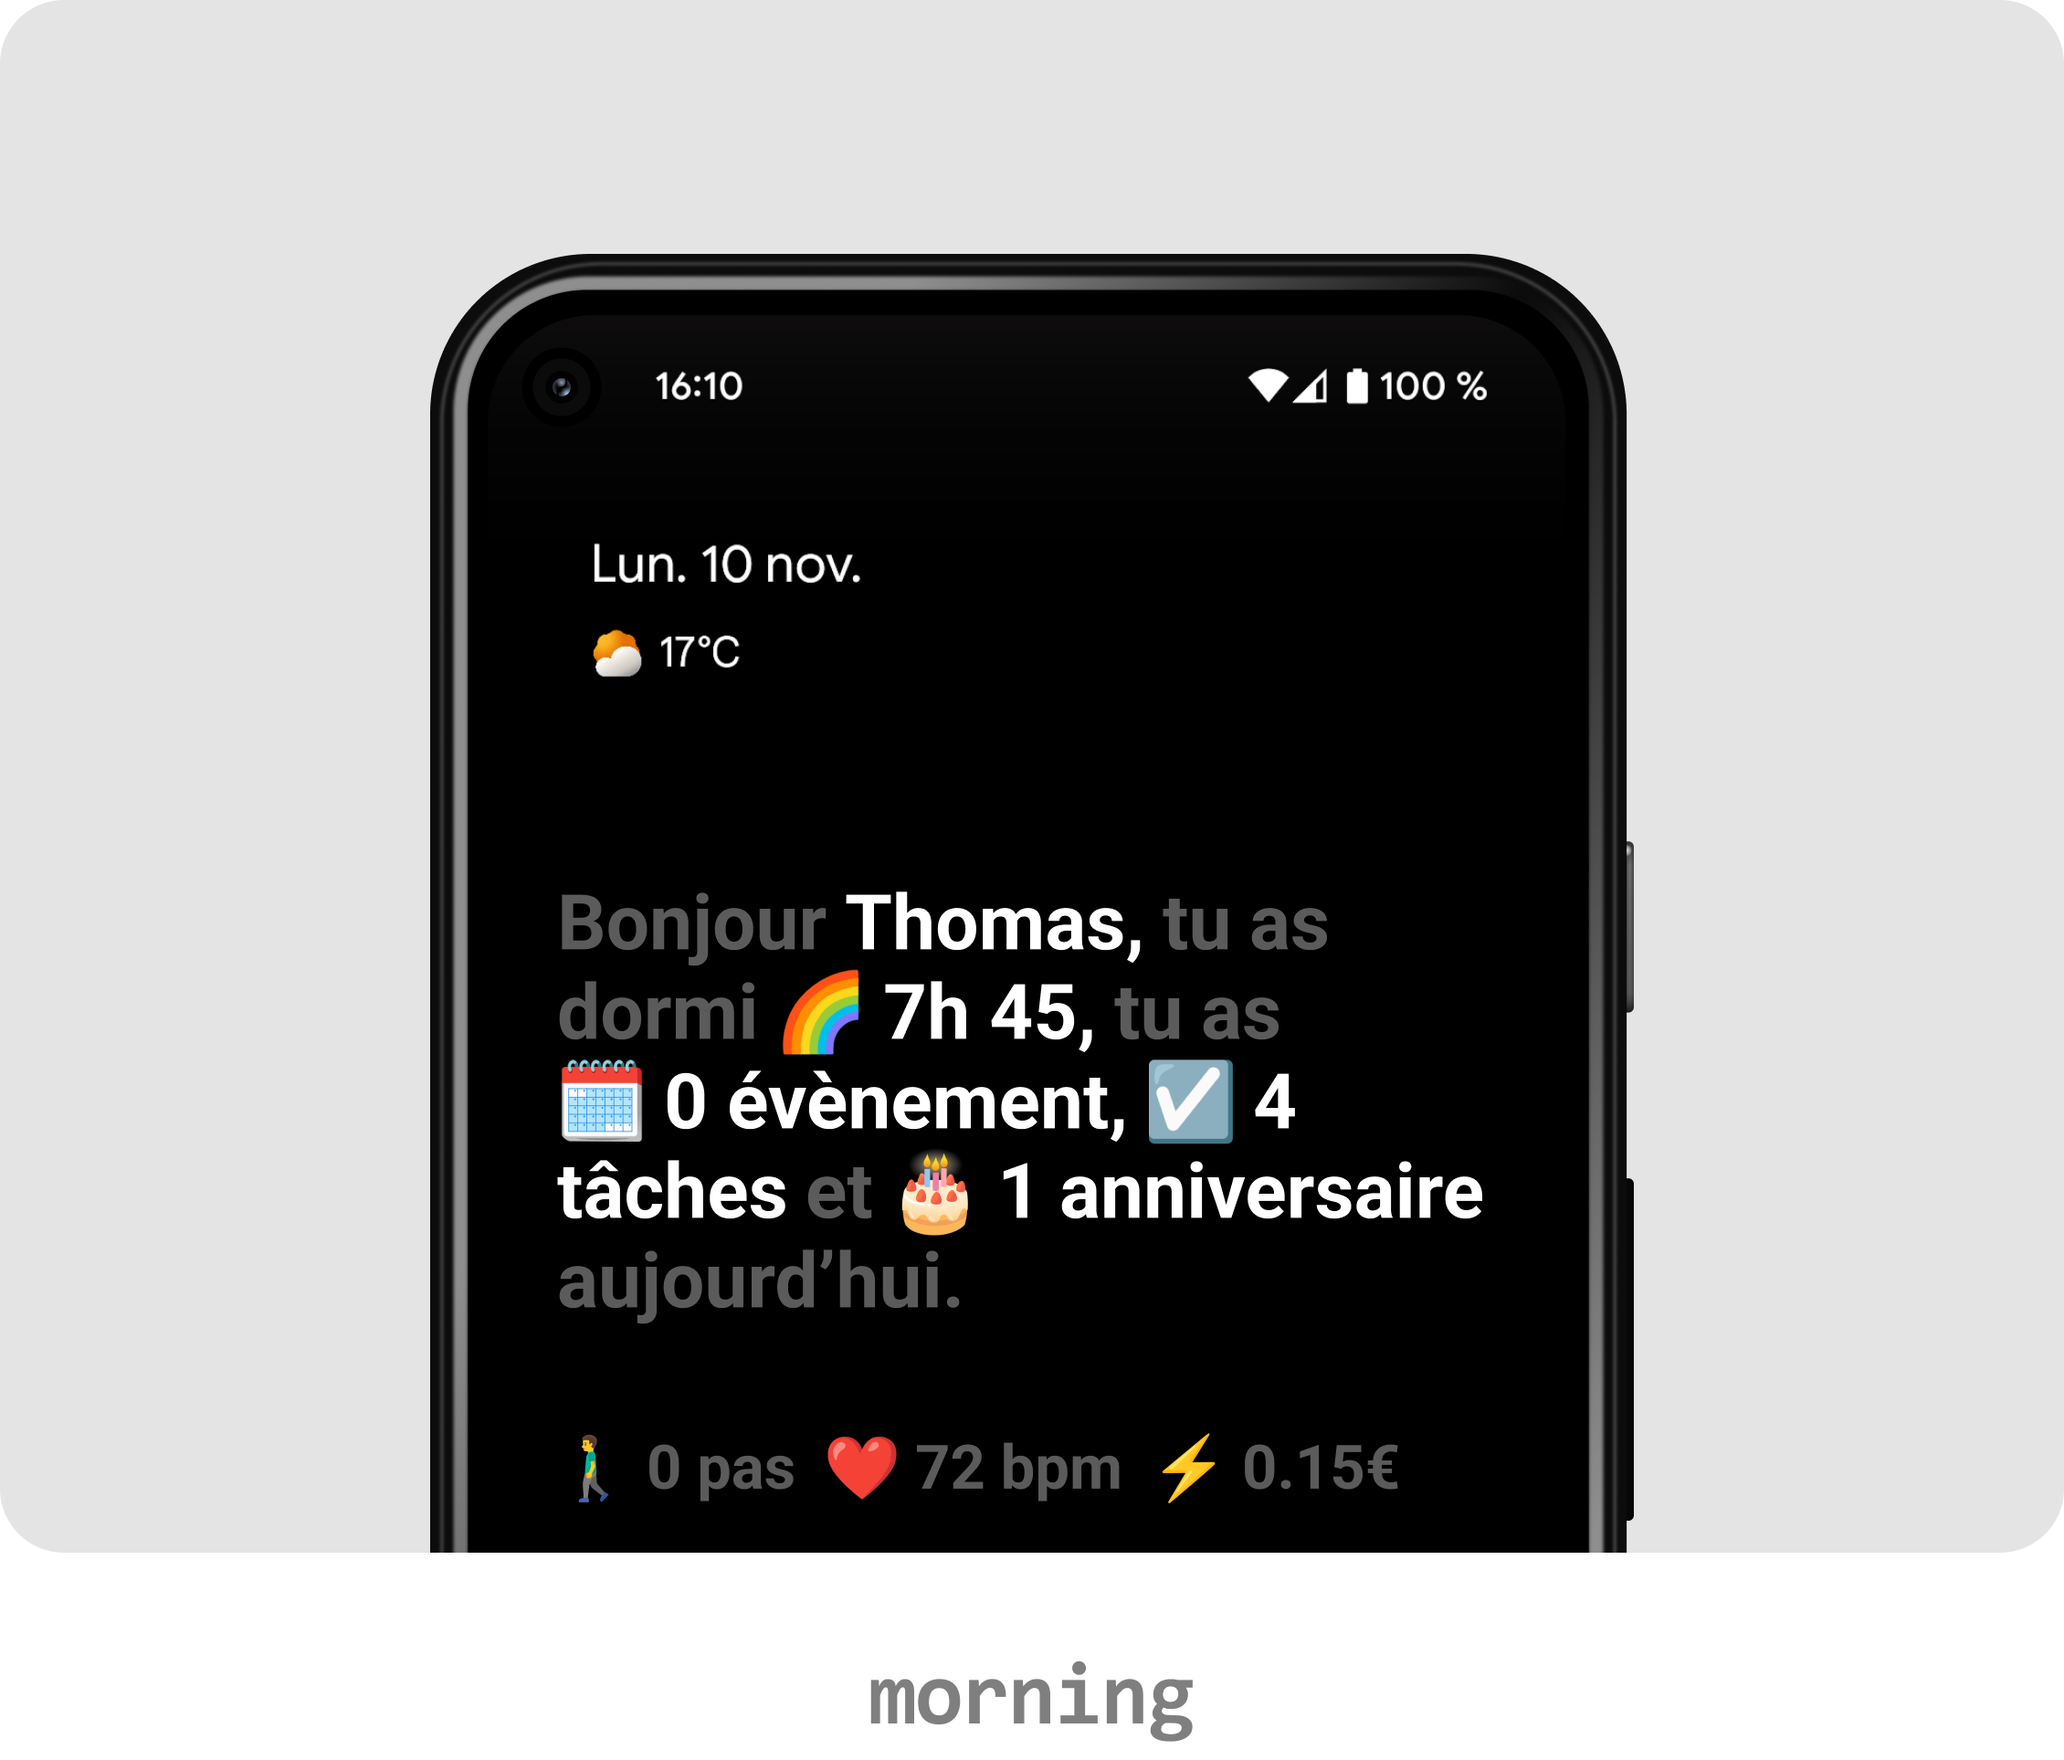
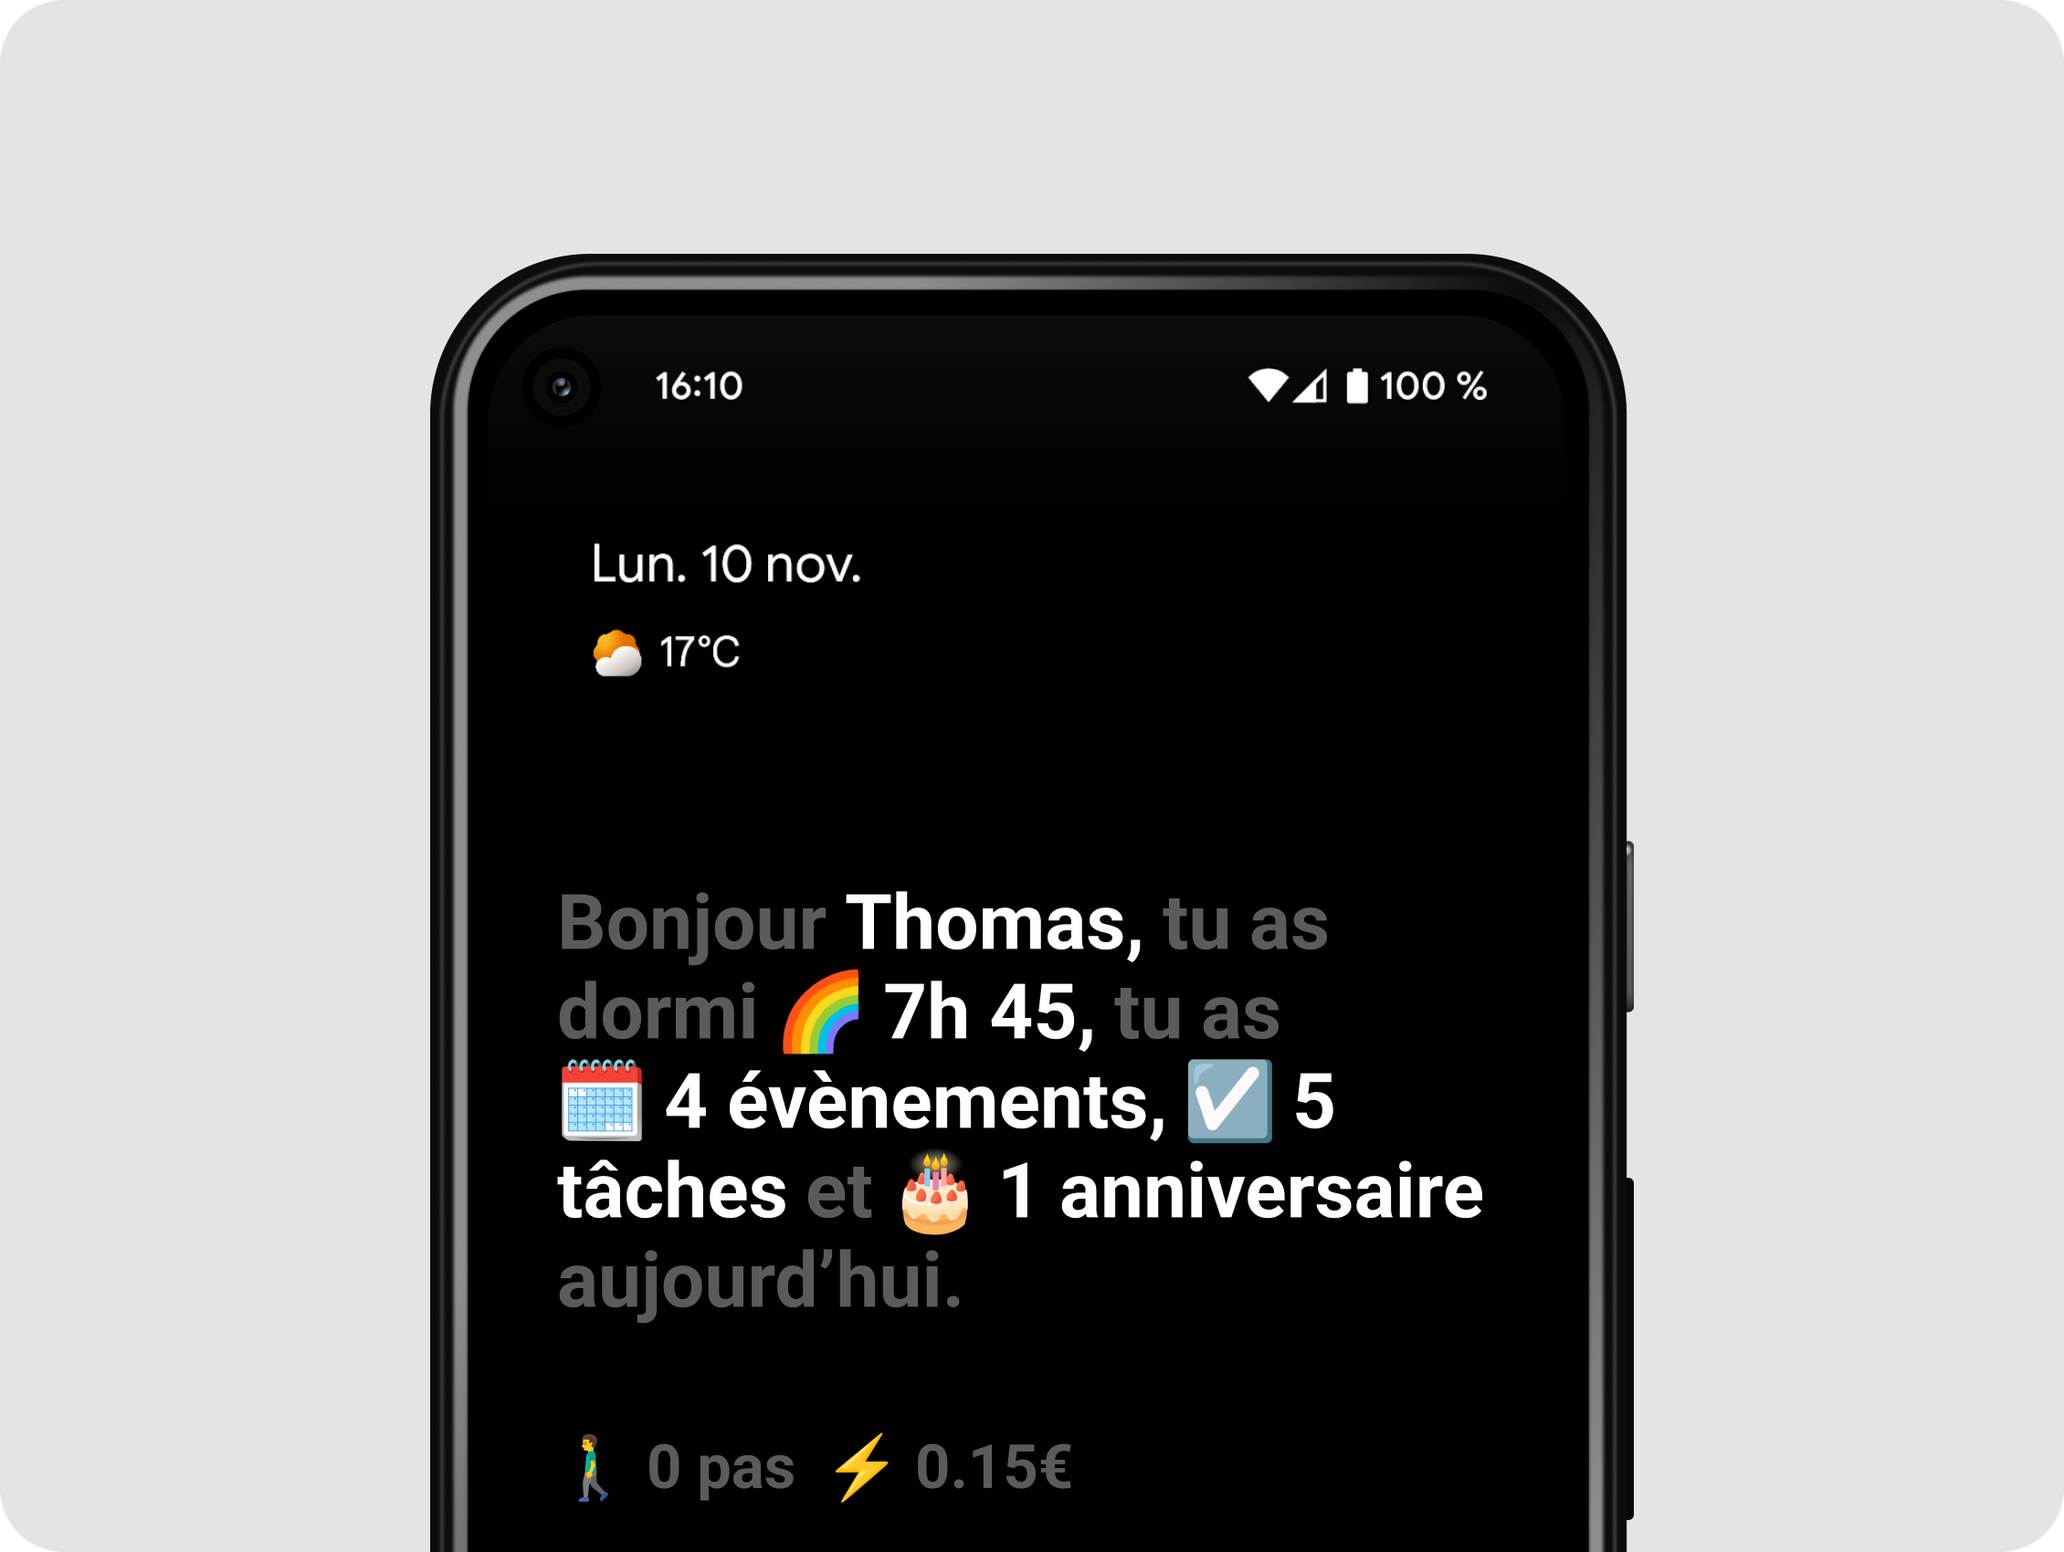
Add english version

diff --git a/README.md b/README.md
@@ -3,15 +3,19 @@
 > A minimalist Android widget for Home Assistant displaying your daily summary with contextual messages based on time of day.
 
 <p>
-  <img src="assets/badges/home-assistant.png" height="28" alt="Home Assistant Compatible" />
-  <img src="assets/badges/buy-me-a-coffee.png" height="28" alt="Buy Me a Coffee" />
+  <a href="https://www.home-assistant.io/" target="_blank">
+    <img src="assets/badges/home-assistant.png" height="28" alt="Home Assistant Compatible" />
+  </a>
+  <a href="https://buymeacoffee.com/tben" target="_blank">
+    <img src="assets/badges/buy-me-a-coffee.png" height="28" alt="Buy Me a Coffee" />
+  </a>
 </p>
 
 <p align="left">
-  <img src="assets/screenshots/widget-cover.gif" width="100%" />
+  <img src="assets/screenshots/widget-cover.gif" width="80%" />
 </p>
 
-**Inspired by [Joi Planner](https://joi.software/)** - An excellent app that I wanted to recreate with my own Home Assistant data!
+**Inspired by [Joi Planner](https://joi.software/)** - An app that I wanted to recreate with my own Home Assistant data!
 
 ## Features
 
@@ -89,7 +93,7 @@ Select the Template widget
 <p align="center"><img src="assets/screenshots/step3_widget_config.png" width="100%" /></p>
 <b>3. Configure & Save</b>
 <br/>
-Paste code, set size to 28, Transparent theme, White text
+Paste <a href="config/widget_template_en.jinja2">code</a>, set size to <b>28</b>, <b>Transparent</b> theme, <b>White</b> text
 </td>
 </tr>
 </table>
@@ -111,7 +115,8 @@ ha-minimalist-widget/
 │
 ├── config/
 │   ├── configuration_example.yaml # Complete configuration for HA
-│   └── widget_template.jinja2     # Android widget code
+│   ├── widget_template_en.jinja2  # Android widget code (English)
+│   └── widget_template_fr.jinja2  # Android widget code (French)
 │
 ├── docs/
 │   ├── installation.md            # Detailed installation guide
@@ -131,6 +136,10 @@ ha-minimalist-widget/
 ## Customization
 
 The widget is fully customizable! Modify the **USER PARAMETERS** section:
+
+**Available languages:**
+- 🇬🇧 English: [`widget_template_en.jinja2`](config/widget_template_en.jinja2)
+- 🇫🇷 French: [`widget_template_fr.jinja2`](config/widget_template_fr.jinja2)
 
 ```jinja2
 {% set NAME       = 'Thomas' %}        # Your first name
